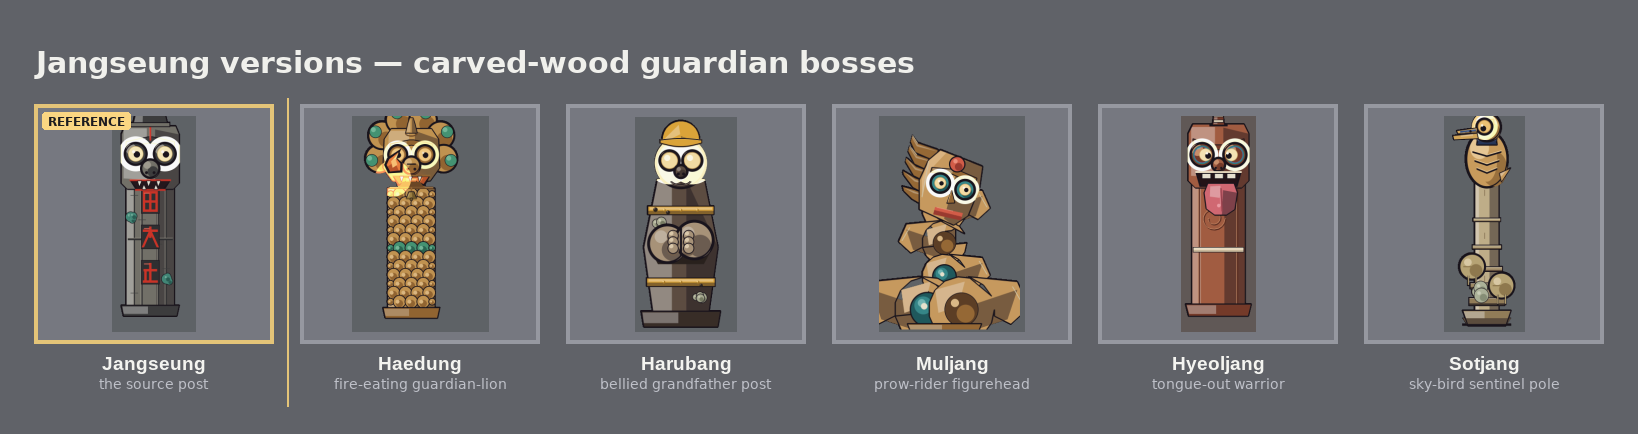
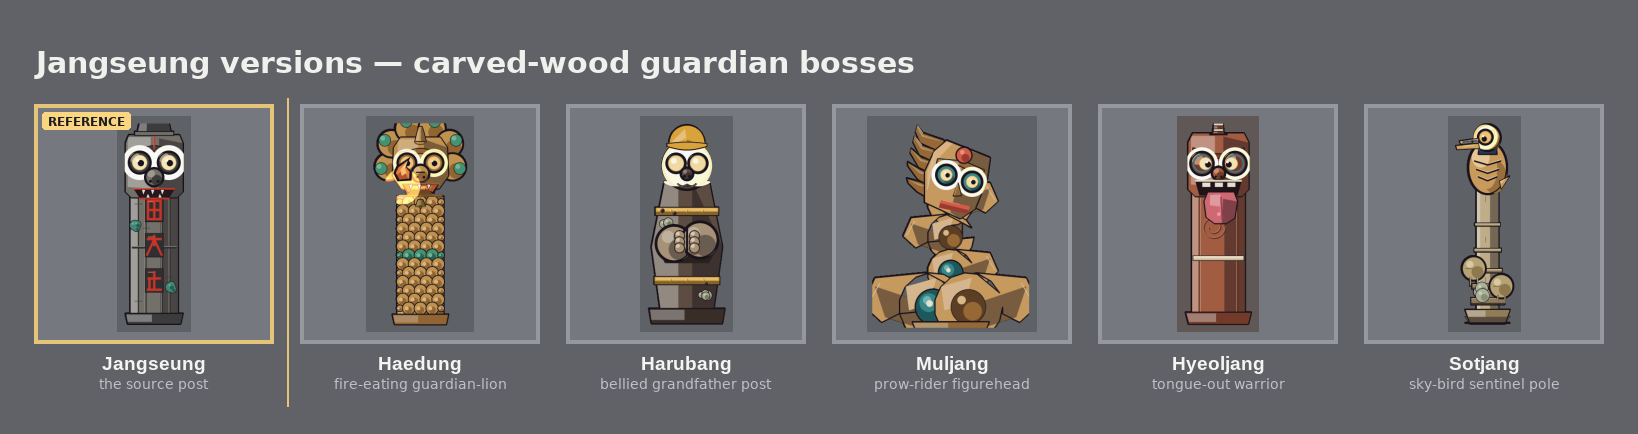
skybit broods: re-crop Jangseung + Umibozu showcases so all characters are whole

diff --git a/docs/skybit_devil/batch2/jangseung_versions/build_showcase.py b/docs/skybit_devil/batch2/jangseung_versions/build_showcase.py
@@ -26,45 +26,53 @@ NAME_COL = (244, 244, 240)
 FACET_COL = (190, 192, 200)
 REF_TAG = (250, 214, 130)
 
-# Per-sheet hero windows (x, y, w, h) in source pixels, measured against each
-# 1040x900 sheet. Bottoms are trimmed clear of each sheet's "(a) Hero ..."
-# caption and the windows stay left of the pillar/gap and (c)-chip columns so
-# only the hero post carries in.
+# Per-sheet hero windows (x, y, w, h) in source pixels. Each window was
+# re-measured from the actual painted creature bounds (an automated non-
+# background bounding-box scan of the hero panel) and padded with a clear
+# margin on every side, so no carved post, mane-ring, hat, lean, hair fan,
+# bird bill, scroll/pole base or keyline touches a crop edge. Generous extra
+# background is fine — fit_inside() normalizes every tile to the same size —
+# but clipping the creature is not. Windows stay left of the (b) gap-pillar /
+# (c) chip columns and above each sheet's "(a) Hero ..." caption so only the
+# hero carries in. Muljang is the tight case: its forward lean reaches within
+# 10px of the panel's left edge and its base plate ends only ~9px above its own
+# caption, so those two margins are the most the source affords without clipping
+# the figure or pulling caption text in.
 TILES = [
     {
         "file": "docs/skybit_devil/batch2/jiangshi_epic/jangseung/round_2.png",
-        "crop": (78, 75, 180, 460),
+        "crop": (80, 56, 159, 462),
         "name": "Jangseung",
         "facet": "the source post",
         "reference": True,
     },
     {
         "file": "docs/skybit_devil/batch2/jangseung_versions/haedung/round_4.png",
-        "crop": (30, 75, 300, 470),
+        "crop": (40, 56, 238, 475),
         "name": "Haedung",
         "facet": "fire-eating guardian-lion",
     },
     {
         "file": "docs/skybit_devil/batch2/jangseung_versions/harubang/round_2.png",
-        "crop": (70, 110, 200, 420),
+        "crop": (64, 99, 190, 438),
         "name": "Harubang",
         "facet": "bellied grandfather post",
     },
     {
         "file": "docs/skybit_devil/batch2/jangseung_versions/muljang/round_2.png",
-        "crop": (30, 118, 290, 429),
+        "crop": (0, 139, 325, 411),
         "name": "Muljang",
         "facet": "prow-rider figurehead",
     },
     {
         "file": "docs/skybit_devil/batch2/jangseung_versions/hyeoljang/round_2.png",
-        "crop": (80, 75, 160, 455),
+        "crop": (72, 56, 174, 457),
         "name": "Hyeoljang",
         "facet": "tongue-out warrior",
     },
     {
         "file": "docs/skybit_devil/batch2/jangseung_versions/sotjang/round_2.png",
-        "crop": (70, 90, 170, 450),
+        "crop": (71, 65, 164, 480),
         "name": "Sotjang",
         "facet": "sky-bird sentinel pole",
     },

diff --git a/docs/skybit_devil/batch2/umibozu_versions/build_showcase.py b/docs/skybit_devil/batch2/umibozu_versions/build_showcase.py
@@ -29,46 +29,48 @@ NAME_COL = (244, 244, 240)
 FACET_COL = (190, 192, 200)
 REF_TAG = (250, 214, 130)
 
-# Per-sheet hero windows (x, y, w, h) in source pixels, measured against a
-# 20px grid overlay on panel (a). Bounds reach each silhouette's true extent
-# (the lure stalk, the nine-arm spread, the hung rib-cage, the wide clam, the
-# spiral whorl) and stop clear of the panel caption text so only the creature
-# carries in.
+# Per-sheet hero windows (x, y, w, h) in source pixels. Each window was
+# auto-measured from panel (a)'s creature blob (deviation from the smooth
+# undersea gradient), then padded so every extremity — lure stalk, nine-arm
+# spread, hung rib-cage + tail, clam width + mirage plume, spiral cord + tail —
+# clears the crop edge with a background margin on all four sides. fit_inside
+# normalizes the differing window sizes, so generous windows never clip and
+# never distort.
 TILES = [
     {
         "file": "docs/skybit_devil/batch2/leyak_epic/umibozu/round_3.png",
-        "crop": (85, 140, 215, 340),
+        "crop": (82, 127, 192, 363),
         "name": "Umibozu",
         "facet": "the source sea-monk (shipped)",
         "reference": True,
     },
     {
         "file": "docs/skybit_devil/batch2/umibozu_versions/chochin_anko/round_2.png",
-        "crop": (88, 150, 248, 360),
+        "crop": (33, 140, 179, 379),
         "name": "Chochin-Anko",
         "facet": "anglerfish lure-fiend",
     },
     {
         "file": "docs/skybit_devil/batch2/umibozu_versions/akkorokamui/round_2.png",
-        "crop": (48, 110, 270, 165),
+        "crop": (39, 107, 236, 179),
         "name": "Akkorokamui",
         "facet": "sunset kraken-deity",
     },
     {
         "file": "docs/skybit_devil/batch2/umibozu_versions/bake_kujira/round_2.png",
-        "crop": (143, 110, 164, 405),
+        "crop": (50, 122, 266, 430),
         "name": "Bake-Kujira",
         "facet": "skeletal ghost-whale",
     },
     {
         "file": "docs/skybit_devil/batch2/umibozu_versions/hamaguri/round_2.png",
-        "crop": (113, 108, 200, 395),
+        "crop": (64, 111, 228, 414),
         "name": "Hamaguri-Shinkirou",
         "facet": "mirage drowned-city clam",
     },
     {
         "file": "docs/skybit_devil/batch2/umibozu_versions/tehom/round_4.png",
-        "crop": (88, 140, 230, 190),
+        "crop": (67, 103, 224, 266),
         "name": "Tehom-no-Tamago",
         "facet": "abyssal leviathan-egg",
     },
